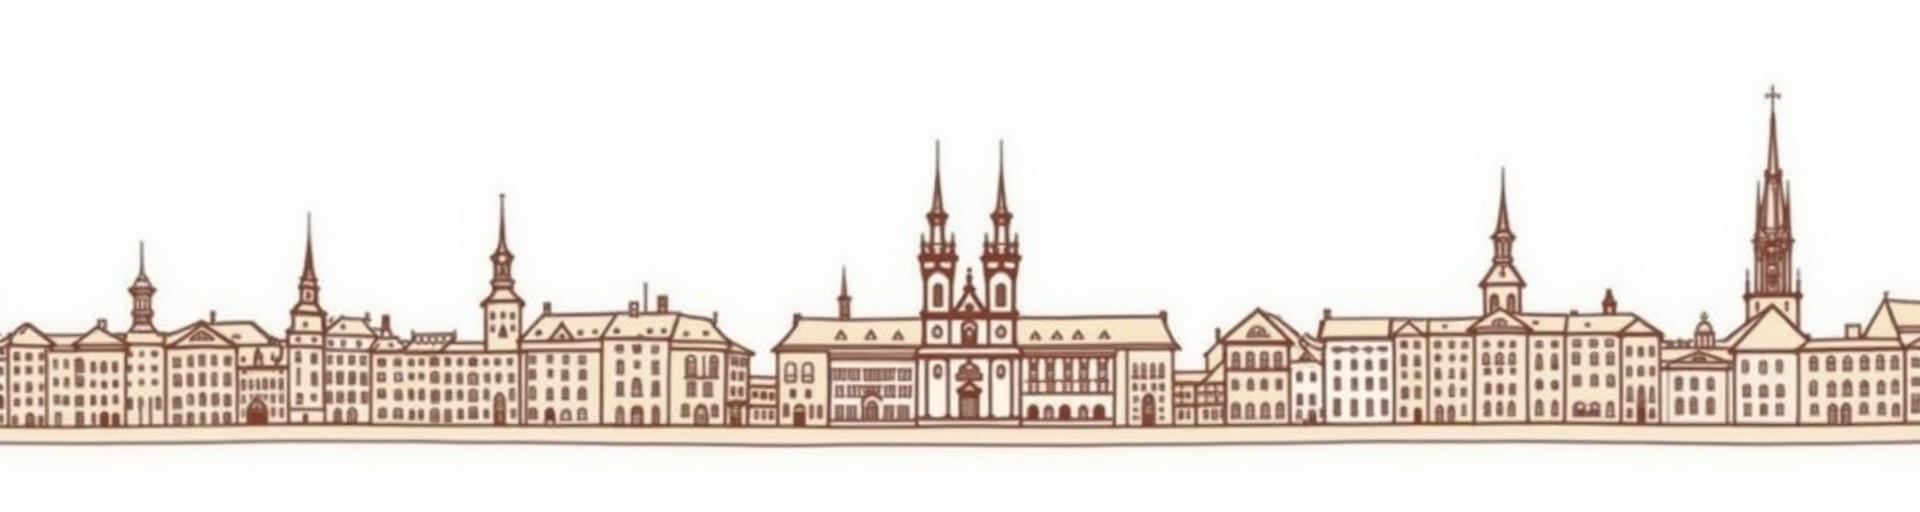
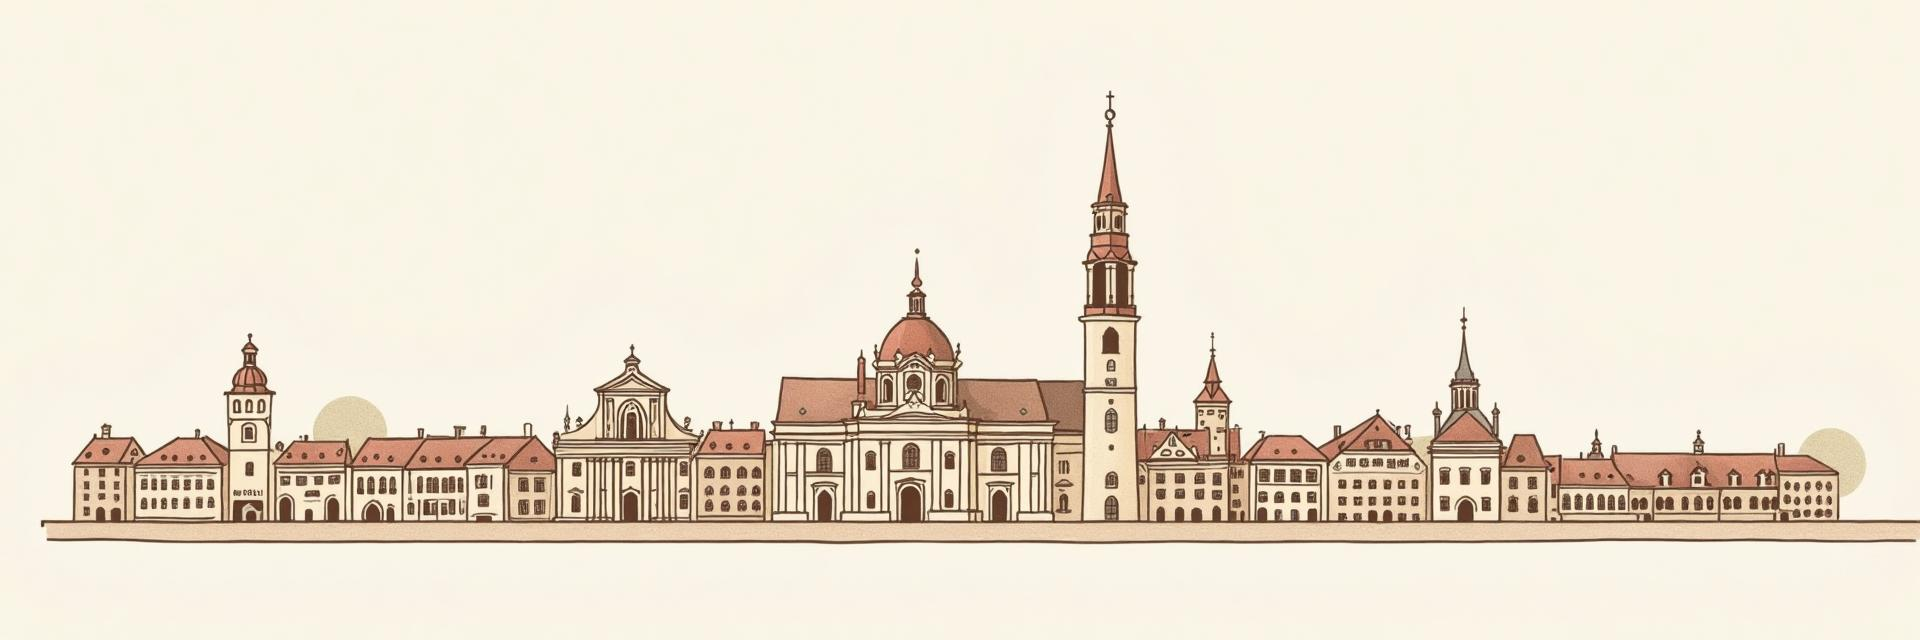
Reverted to commit 1c7379338aff0f8f4a93e95a1cde02cab731964e

diff --git a/src/pages/Index.tsx b/src/pages/Index.tsx
@@ -8,6 +8,7 @@ import Navigation from "@/components/Navigation";
 import HeroWeb3 from "@/components/HeroWeb3";
 import AboutSection from "@/components/AboutSection";
 import AIAnalysisSection from "@/components/AIAnalysisSection";
+import warsawLineart from "@/assets/warsaw-lineart.png";
 
 // Lazy load below-the-fold components for better code splitting
 const ServicesWeb3 = lazy(() => import("@/components/ServicesWeb3"));
@@ -69,6 +70,19 @@ const Index = () => {
         ) : (
           <StaticHeritagePlaceholder />
         )}
+        
+        {/* Warsaw Line Art - Sits directly on background */}
+        <div className="absolute top-[65vh] md:top-[75vh] left-1/2 -translate-x-1/2 w-[90%] md:w-[70%] pointer-events-none">
+          <img 
+            src={warsawLineart} 
+            alt="Warsaw skyline illustration" 
+            className="w-full opacity-60 md:opacity-45"
+            style={{ 
+              mixBlendMode: 'lighten',
+              filter: 'invert(1) brightness(0.9)'
+            }}
+          />
+        </div>
       </div>
       
       <div className="relative z-10">

diff --git a/src/components/HeroWeb3.tsx b/src/components/HeroWeb3.tsx
@@ -1,6 +1,5 @@
 import { Button } from "@/components/ui/button";
 import Sparkles from "lucide-react/dist/esm/icons/sparkles";
-import warsawLineart from "@/assets/warsaw-lineart.png";
 
 const HeroWeb3 = () => {
   const scrollToContact = () => {
@@ -40,18 +39,6 @@ const HeroWeb3 = () => {
               </span>
               <div className="absolute inset-0 bg-gradient-to-r from-red-800/30 to-red-950/30 opacity-0 group-hover:opacity-100 transition-opacity duration-300" />
             </Button>
-          </div>
-
-          {/* Warsaw Line Art Divider - Sits on homepage background */}
-          <div className="relative w-full my-8 md:my-12">
-            <img 
-              src={warsawLineart} 
-              alt="Warsaw skyline illustration" 
-              className="block mx-auto w-[90%] md:w-[70%] opacity-70 md:opacity-50 pointer-events-none"
-              style={{ 
-                mixBlendMode: 'multiply'
-              }}
-            />
           </div>
 
           {/* Stats */}
